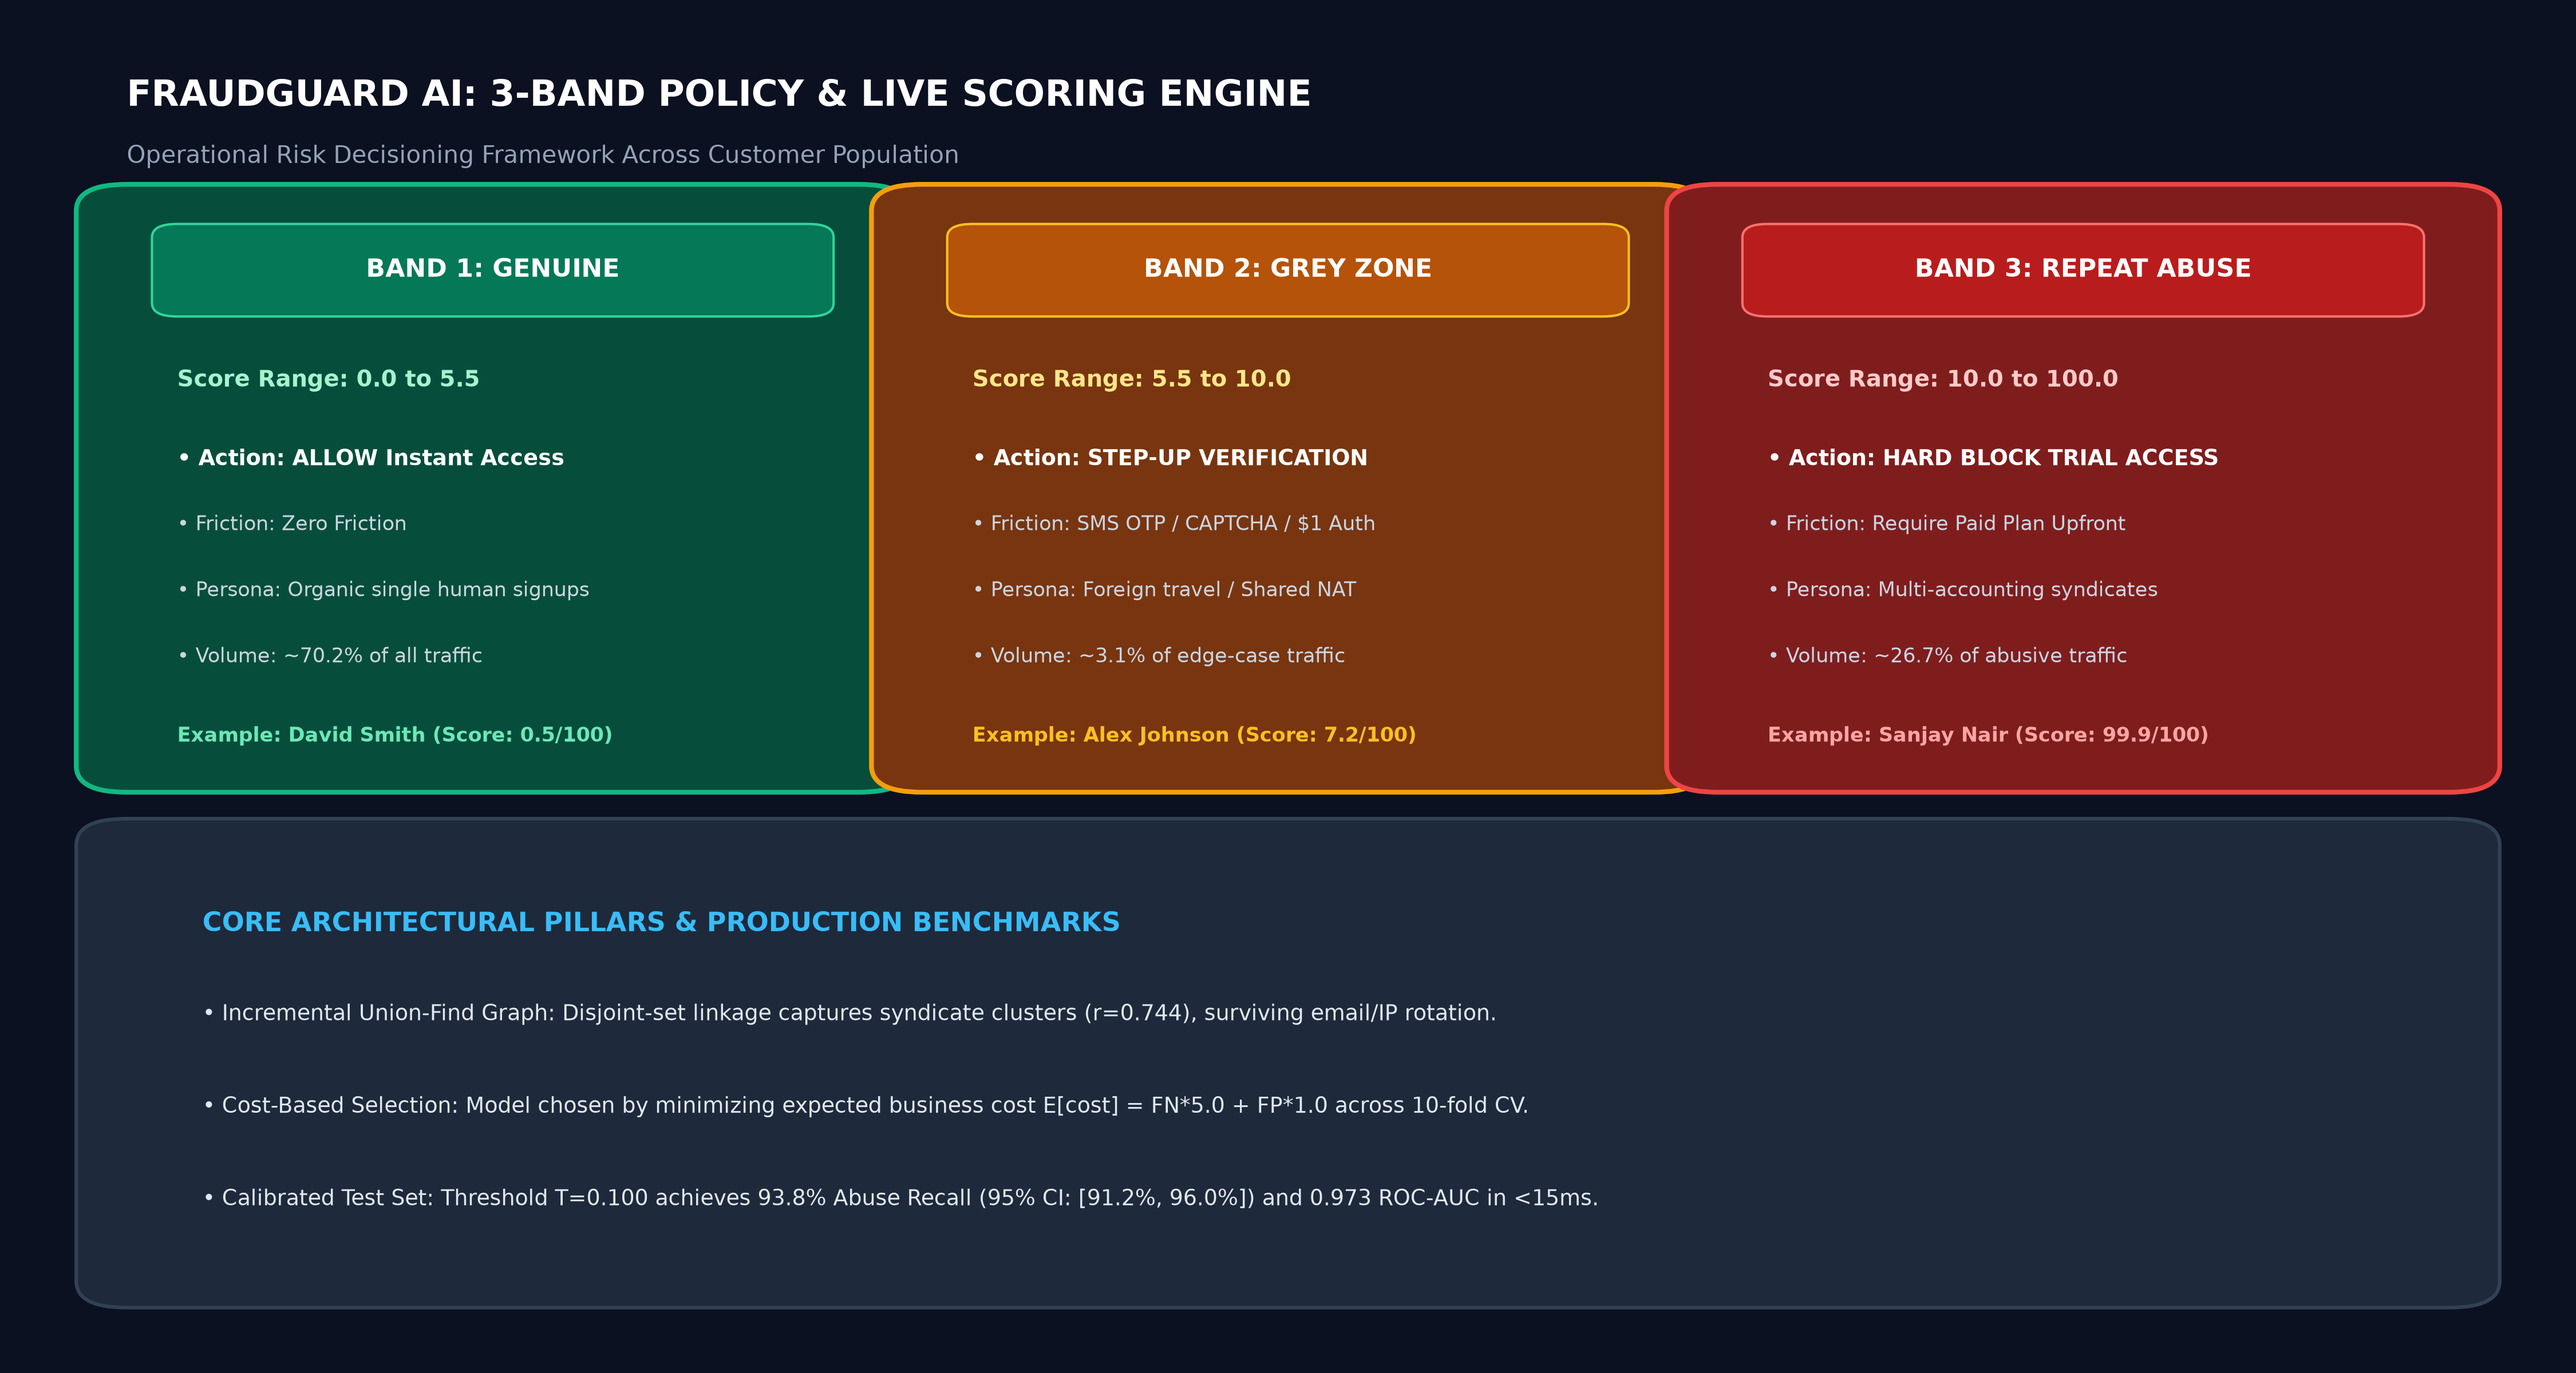
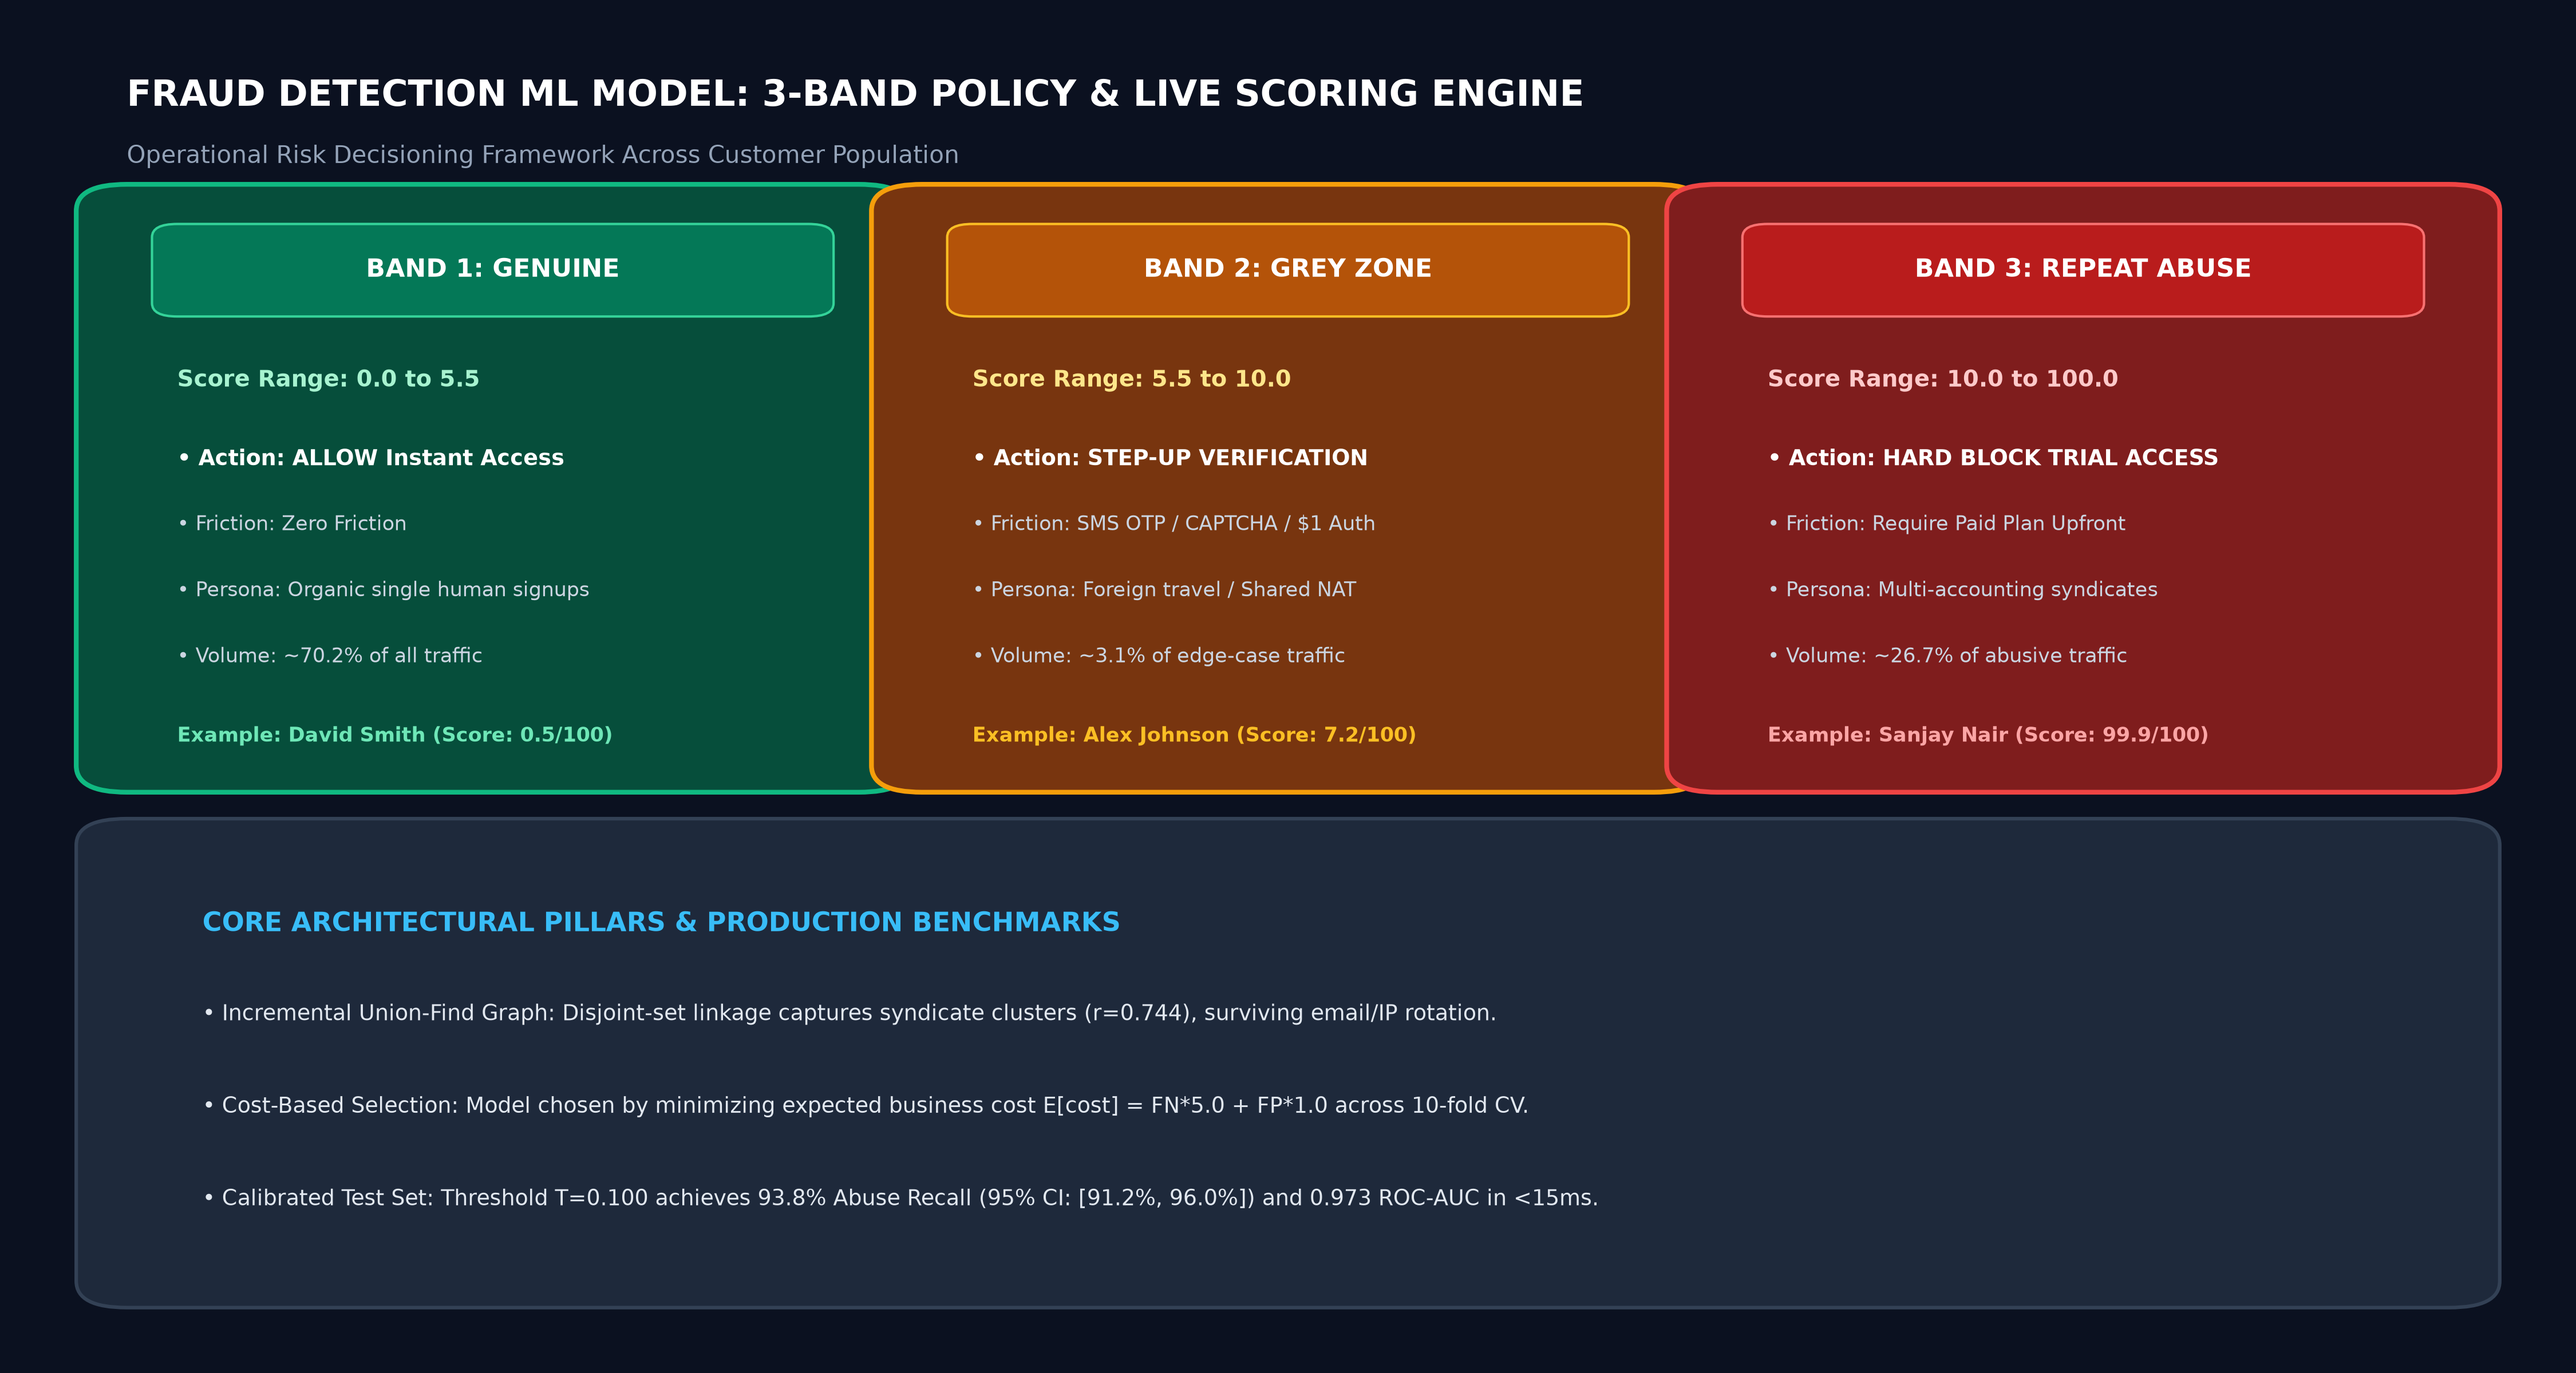
chore: remove branding and rename to Fraud Detection ML Model across all services

Changed region(s): [[0.0933, 0.0312, 0.6222, 0.0938]]

diff --git a/api.py b/api.py
@@ -59,8 +59,8 @@ async def lifespan(app: FastAPI):
     print("[FastAPI] Shutting down FraudRiskEngine.")
 
 app = FastAPI(
-    title="FraudGuard AI - Real-Time Risk Detection Microservice",
-    description="Enterprise API for Free-Trial Abuse & Multi-Accounting Syndicate Detection.",
+    title="Fraud Detection ML Model - Real-Time Risk Microservice",
+    description="Low-latency (<15ms) real-time risk scoring engine for signup abuse detection.",
     version="2.0.0",
     lifespan=lifespan
 )
@@ -164,7 +164,7 @@ def health_check():
     eng = get_engine()
     return {
         "status": "healthy",
-        "service": "FraudGuard AI Risk Engine",
+        "service": "Fraud Detection ML Model Risk Engine",
         "model_loaded": eng is not None,
         "feature_count": len(FEATURE_COLS)
     }
@@ -238,5 +238,5 @@ def get_drift_status():
 if __name__ == "__main__":
     import uvicorn
     port = int(os.environ.get("PORT", 8000))
-    print(f"Starting FraudGuard AI Production Microservice on http://0.0.0.0:{port} ...")
+    print(f"Starting Fraud Detection ML Model Production Microservice on http://0.0.0.0:{port} ...")
     uvicorn.run("api:app", host="0.0.0.0", port=port, reload=False)

diff --git a/scripts/generate_pdf_report.py b/scripts/generate_pdf_report.py
@@ -255,13 +255,13 @@ template = """<!DOCTYPE html>
 <div class="page">
   <div class="doc-header">
     <div>
-      <div class="doc-title">🛡 FraudGuard AI: Free Trial Abuse Risk Engine</div>
+      <div class="doc-title">🛡 Fraud Detection ML Model</div>
       <div class="doc-subtitle">Production Architecture, ML Benchmark & Operations Guide</div>
     </div>
     <div class="badge-row">
-      <span class="badge badge-primary">XGBoost v2</span>
-      <span class="badge badge-success">ROC-AUC: 0.976</span>
-      <span class="badge badge-warning">Recall: 95.1%</span>
+      <span class="badge badge-primary">ML Risk Pipeline</span>
+      <span class="badge badge-success">ROC-AUC: 0.973</span>
+      <span class="badge badge-warning">Recall: 93.8%</span>
     </div>
   </div>
 

diff --git a/scripts/generate_inference_visuals.py b/scripts/generate_inference_visuals.py
@@ -233,7 +233,7 @@ def create_dashboard_summary():
     ax.axis('off')
     
     # Header
-    ax.text(0.04, 0.96, "FRAUDGUARD AI: 3-BAND POLICY & LIVE SCORING ENGINE", fontsize=15, fontweight='bold', color='#ffffff', va='top')
+    ax.text(0.04, 0.96, "FRAUD DETECTION ML MODEL: 3-BAND POLICY & LIVE SCORING ENGINE", fontsize=15, fontweight='bold', color='#ffffff', va='top')
     ax.text(0.04, 0.91, "Operational Risk Decisioning Framework Across Customer Population", fontsize=10, color='#94a3b8', va='top')
     
     # ------------------ BAND 1: GENUINE ------------------

diff --git a/app.py b/app.py
@@ -341,9 +341,9 @@ HTML_PAGE = """<!DOCTYPE html>
     <div class="brand">
       <div class="brand-icon">&#x26E8;</div>
       <div>
-        <div class="brand-title">FraudGuard AI</div>
+        <div class="brand-title">Fraud Detection ML Model</div>
       </div>
-      <span class="brand-badge">XGBoost v2 (ROC-AUC 0.976 | Recall 95.1%)</span>
+      <span class="brand-badge">ML Risk Engine (ROC-AUC 0.973 | Recall 93.8%)</span>
     </div>
     <nav>
       <button class="nav-btn active" onclick="switchTab('scorer')">Live Scorer</button>
